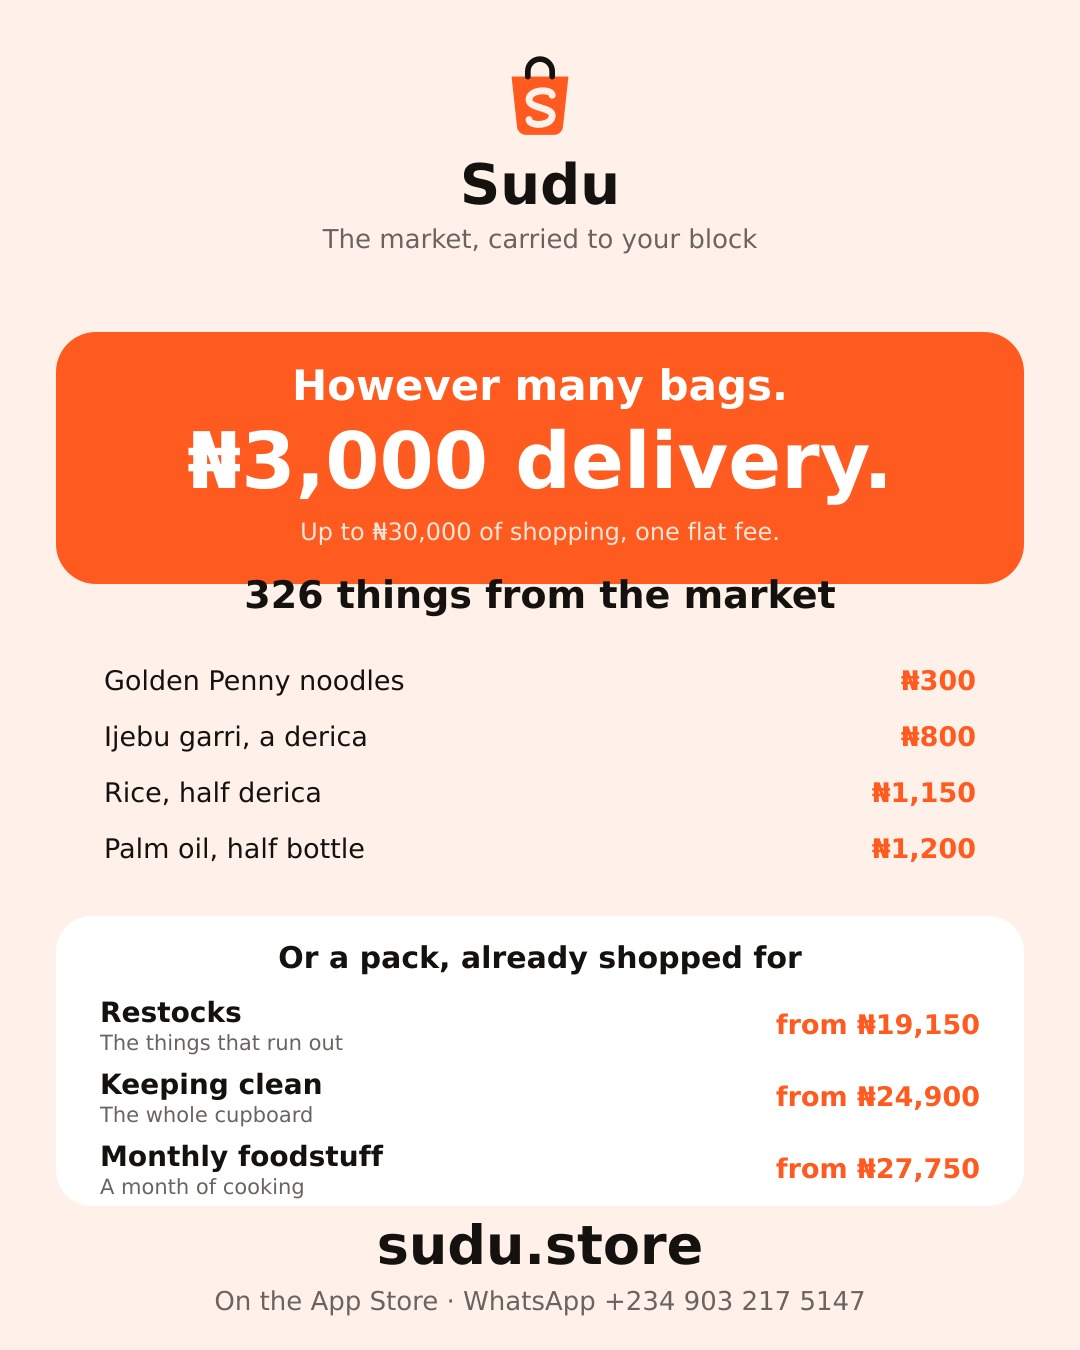
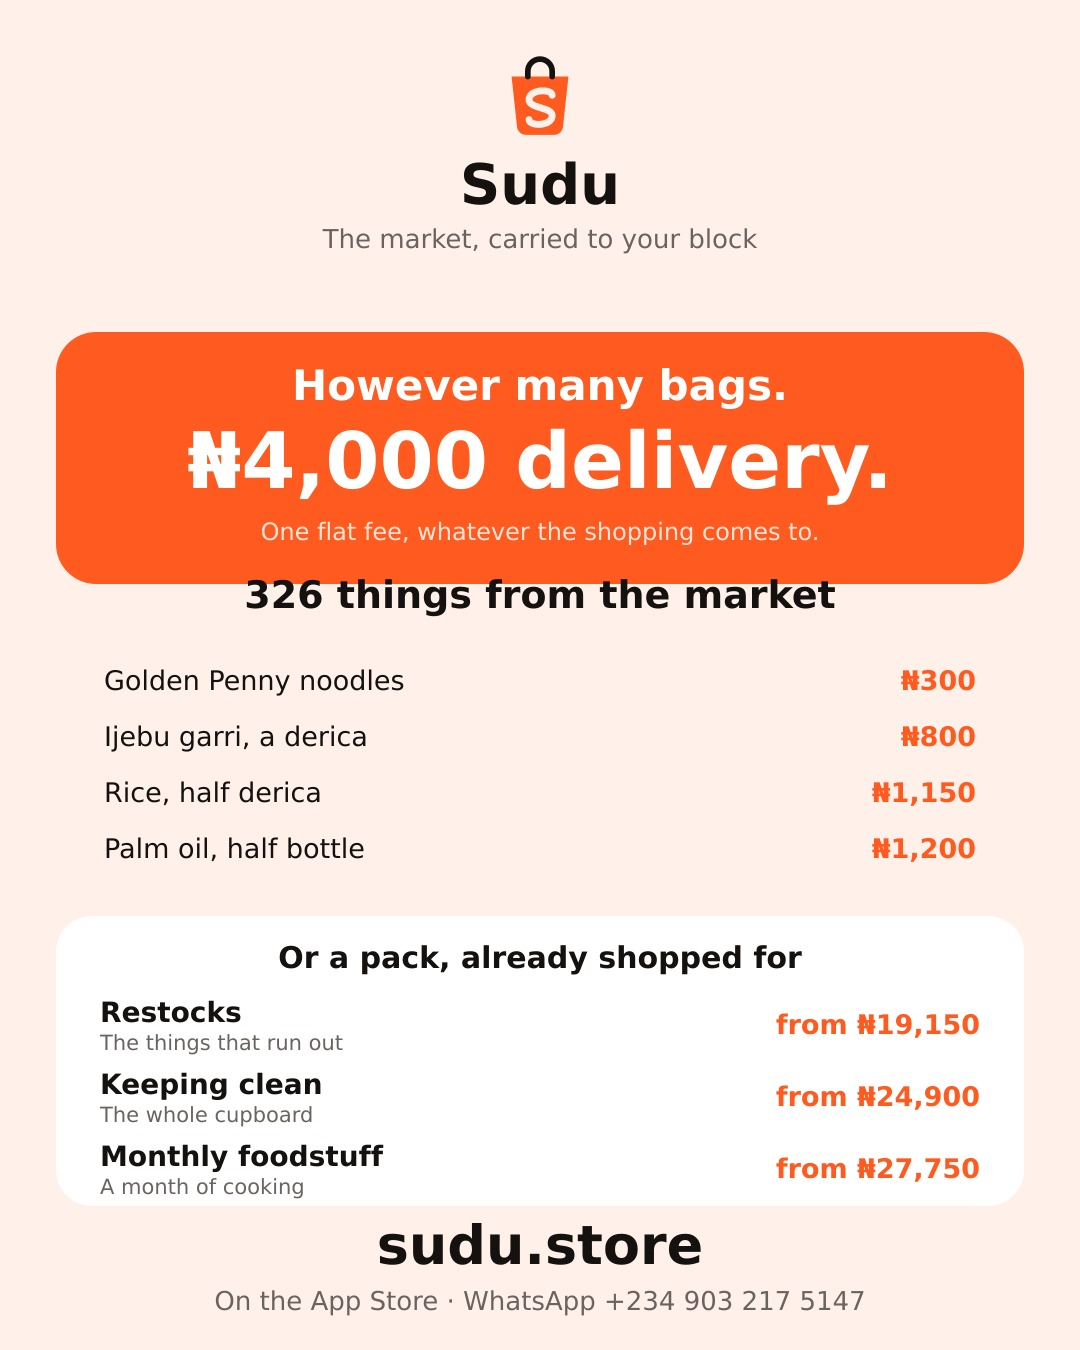
Market delivery is a flat four thousand
One band, no ceiling: four thousand whatever the shopping comes to, on
Local Market and Sudu Shop alike. It was three thousand up to thirty and
four above, which is two numbers to explain and a cliff at thirty
thousand that nobody would have guessed was there.

The flyer is redrawn off it. This is the failure the script exists to
prevent: a price changes in admin, and a picture quoting the old one keeps
being forwarded for a month with nobody able to edit it.

Claude-Session: https://claude.ai/code/session_01A62TtZ3majrmppVL3Tnmwq

Changed region(s): [[0.2139, 0.3111, 0.7639, 0.4044]]

diff --git a/marketing/make-market.py b/marketing/make-market.py
@@ -8,9 +8,10 @@ would cook if the market were not a trip they have to make.
 
 The one number here is the flat fee. Market shopping is charged by what
 the shopping comes to, not by how many things it is, so a full cart and a
-bag of rice cost the same to bring. That only became true today, and it is
-the whole argument: nobody adds a fourth thing to a basket if the fourth
-thing raises the delivery.
+bag of rice cost the same to bring: one flat four thousand, whatever is in
+it. That only became true today, and it is the whole argument, because
+nobody adds a fourth thing to a basket if the fourth thing raises the
+delivery.
 
 Real items at real prices underneath it, because "we sell foodstuff" is a
 claim and "Ijebu garri, a derica, N800" is a receipt.
@@ -81,8 +82,8 @@ def draw(W, H, top_safe, bottom_safe, out_path, tight=False):
     y = top_safe + 292
     out.append('<rect x="56" y="%d" width="%d" height="252" rx="40" fill="%s"/>' % (y, W - 112, ORANGE))
     out.append(text(mid, y + 68, "However many bags.", 42, "bold", "#ffffff", "middle"))
-    out.append(text(mid, y + 156, naira(3000) + " delivery.", 78, "bold", "#ffffff", "middle"))
-    out.append(text(mid, y + 208, "Up to " + naira(30000) + " of shopping, one flat fee.", 24, "normal", CREAM, "middle"))
+    out.append(text(mid, y + 156, naira(4000) + " delivery.", 78, "bold", "#ffffff", "middle"))
+    out.append(text(mid, y + 208, "One flat fee, whatever the shopping comes to.", 24, "normal", CREAM, "middle"))
 
     # The receipt. A claim proves nothing; six real prices do.
     y2 = y + after_hero
